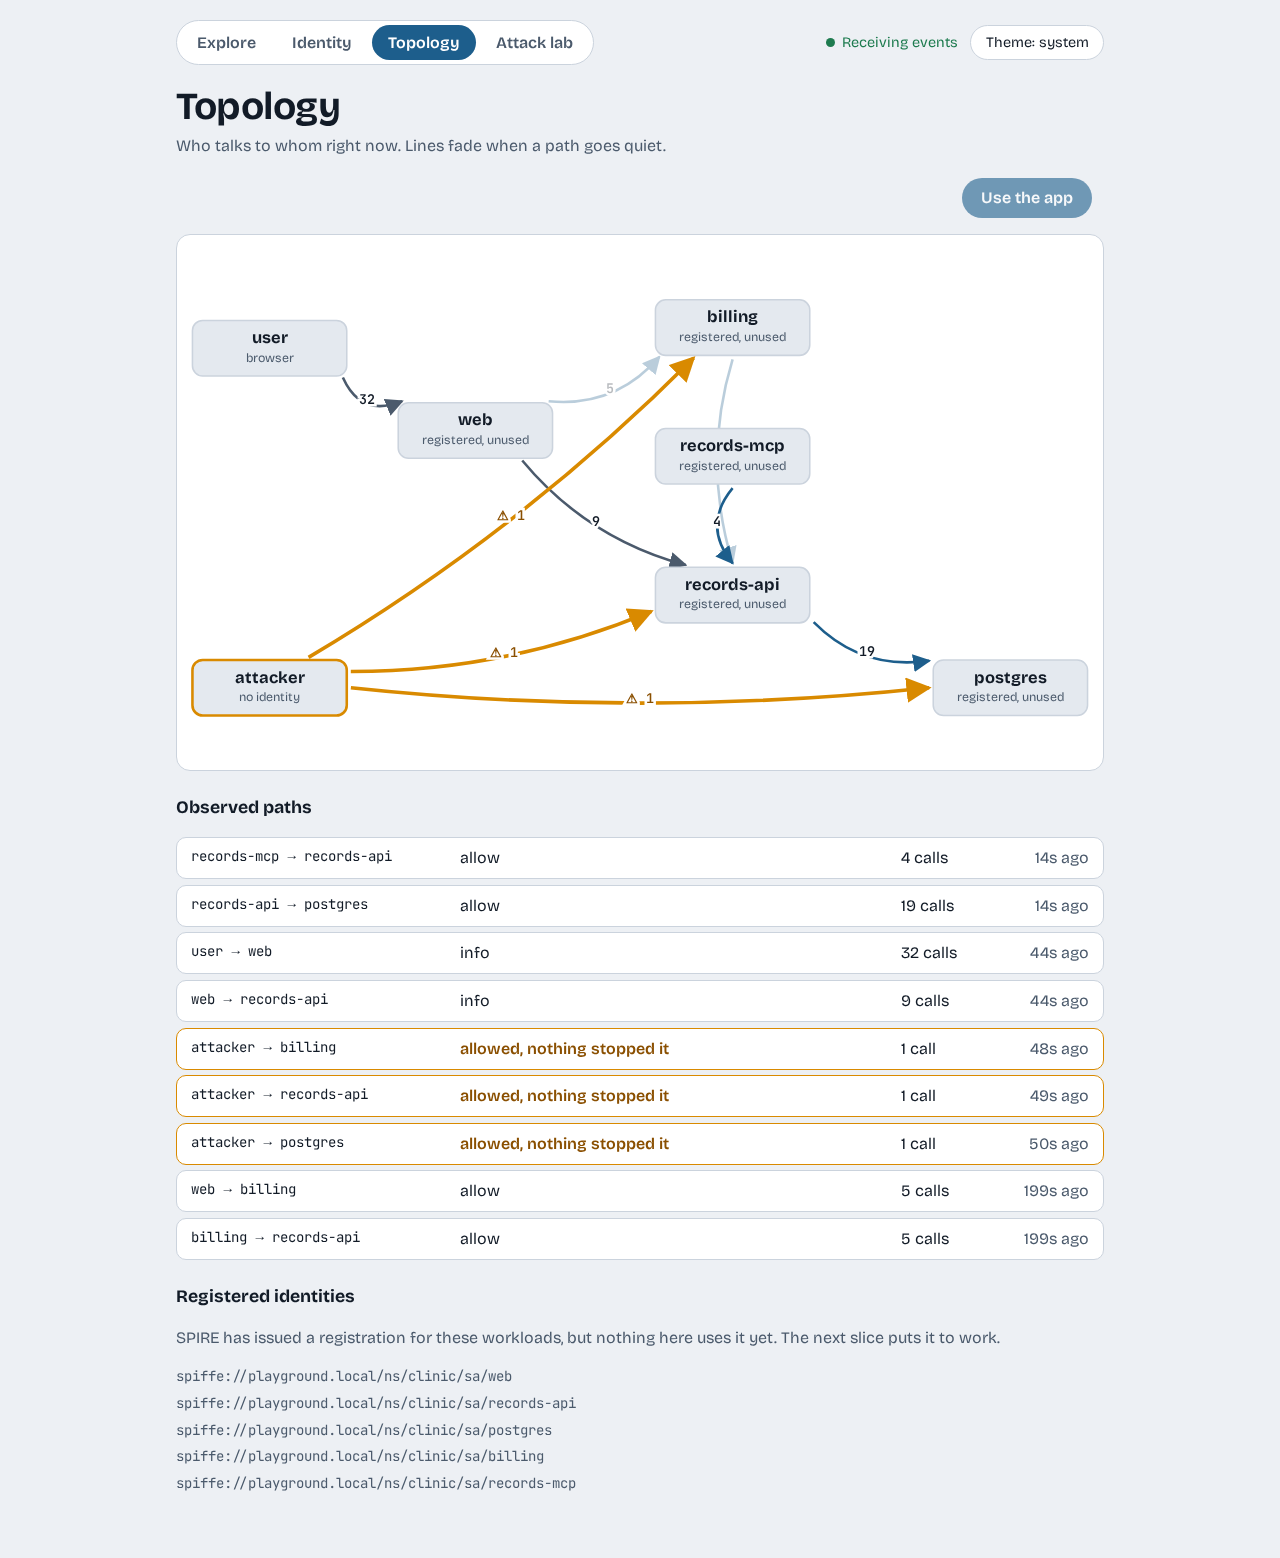
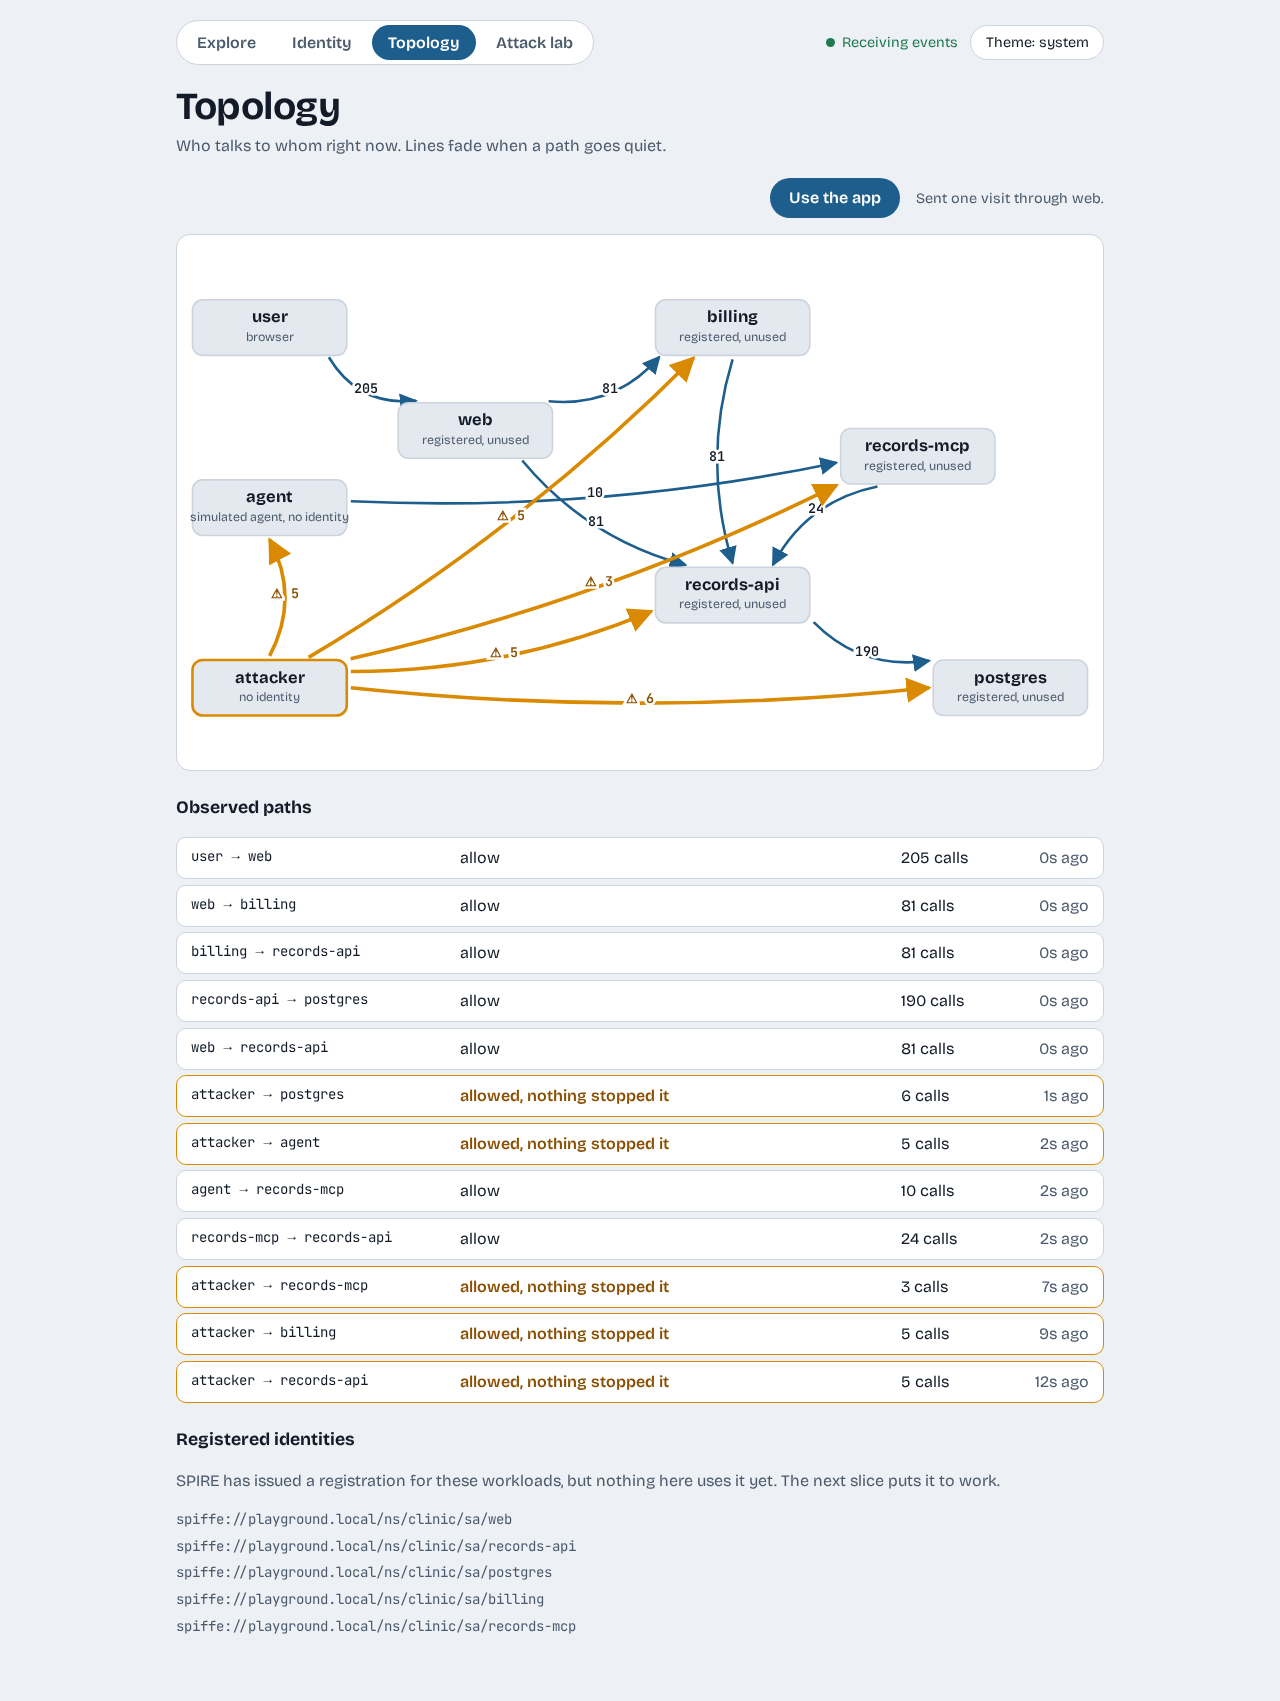
V2b: observer watches records-mcp and agent; tests insist on live evidence; cleaner Topology layout; docs screenshots from fresh activity

diff --git a/web/e2e/baseline.spec.ts b/web/e2e/baseline.spec.ts
@@ -1,4 +1,5 @@
 import { expect, test } from "@playwright/test";
+import { expectFresh, runUntilSeen } from "./fresh";
 
 // With no layers on, the clinic app is wide open. Needs `make clinic` as well as `make echo`.
 
@@ -27,28 +28,10 @@ test("every baseline attack succeeds, and an attack on Postgres shows up as an e
   await expect(page.getByText("allowed, nothing stopped it").first()).toBeVisible();
 });
 
-for (const theme of ["light", "dark"] as const) {
-  test(`screenshots of topology and attack lab, ${theme}`, async ({ page }) => {
-    await page.emulateMedia({ colorScheme: theme });
-    await page.setViewportSize({ width: 1280, height: 900 });
-    await page.goto("/#topology");
-    await page.getByRole("button", { name: "Use the app" }).click();
-    await expect(page.getByText("records-api → postgres", { exact: true })).toBeVisible({ timeout: 20_000 });
-    await page.screenshot({ path: `e2e/screenshots/topology-${theme}.png`, fullPage: true });
-    await page.goto("/#attacks");
-    await page.screenshot({ path: `e2e/screenshots/attacks-${theme}.png`, fullPage: true });
-  });
-}
-
-test("the injection attack leaves the clinic unchanged and the agent's path is on the topology", async ({ page }) => {
-  await page.goto("/#attacks");
-  const row = page.getByRole("listitem").filter({ hasText: "Let an agent summarise a poisoned record" });
-  await row.getByRole("button").click();
-  await expect(row.getByText("Succeeded, nothing stopped it")).toBeVisible({ timeout: 40_000 });
-  await page.goto("/#topology");
-  const paths = page.getByRole("list").filter({ hasText: "records-api → postgres" });
+test("the injection attack leaves the clinic unchanged and the agent's path is seen live", async ({ page }) => {
+  await runUntilSeen(page, "Let an agent summarise a poisoned record", "agent → records-mcp");
   for (const route of ["attacker → agent", "agent → records-mcp", "records-mcp → records-api"]) {
-    await expect(paths.getByText(route, { exact: true })).toBeVisible({ timeout: 20_000 });
+    await expectFresh(page, route);
   }
   // The attack plants its own records and removes them, so the clinic is as it was.
   const list = await (await page.request.get("http://localhost:8081/api/patients")).json();

diff --git a/web/e2e/docs-screenshots.spec.ts b/web/e2e/docs-screenshots.spec.ts
@@ -1,0 +1,33 @@
+import { expect, test } from "@playwright/test";
+import { expectFresh, runUntilSeen } from "./fresh";
+
+// Captures the images the tutorial uses. It makes fresh activity first, so every path on the
+// Topology is current (older ones fade) and the agent's path is present.
+const ASSETS = "../docs/tutorial/assets";
+
+test("capture the Topology and Attack lab for the tutorial", async ({ page }) => {
+  test.setTimeout(120_000);
+  await page.emulateMedia({ colorScheme: "light" });
+  await page.setViewportSize({ width: 1280, height: 900 });
+
+  // Run every attack, insisting each one is seen live, so every line on the picture is current.
+  const attacks: [string, string][] = [
+    ["Read patient records straight from Postgres", "attacker → postgres"],
+    ["Call records-api with no identity", "attacker → records-api"],
+    ["Reach billing from another namespace", "attacker → billing"],
+    ["Call the MCP server with no identity", "attacker → records-mcp"],
+    ["Let an agent summarise a poisoned record", "agent → records-mcp"],
+  ];
+  for (const [title, seen] of attacks) await runUntilSeen(page, title, seen);
+
+  await page.goto("/#attacks");
+  await page.screenshot({ path: `${ASSETS}/attacks-light.png`, fullPage: true });
+
+  await page.goto("/#topology");
+  await page.getByRole("button", { name: "Use the app" }).click();
+  for (const route of ["user → web", "attacker → agent", "agent → records-mcp", "records-mcp → records-api"]) {
+    await expectFresh(page, route, 60);
+  }
+  await page.waitForTimeout(1500); // let the lines settle
+  await page.screenshot({ path: `${ASSETS}/topology-light.png`, fullPage: true });
+});

diff --git a/web/e2e/fresh.ts b/web/e2e/fresh.ts
@@ -1,0 +1,28 @@
+import { expect, type Page } from "@playwright/test";
+
+// The observer's history persists across runs, so "this path is listed" proves nothing about a run
+// that just happened. These helpers insist the path was seen in the last few seconds.
+const route = (page: Page, text: string) =>
+  page.getByRole("listitem").filter({ has: page.locator(".route", { hasText: text }) });
+
+export async function ageOf(page: Page, text: string): Promise<number> {
+  const label = await route(page, text).locator(".age").first().textContent({ timeout: 1000 }).catch(() => null);
+  return label ? parseInt(label, 10) : Infinity;
+}
+
+export const expectFresh = (page: Page, text: string, seconds = 30) =>
+  expect.poll(() => ageOf(page, text), { message: `${text} should have been seen in the last ${seconds}s`, timeout: 15_000 })
+    .toBeLessThan(seconds);
+
+/** Run an attack from the Attack lab, retrying when a freshly started observer had not attached yet. */
+export async function runUntilSeen(page: Page, title: string, seenRoute: string, attempts = 3) {
+  for (let i = 1; i <= attempts; i++) {
+    await page.goto("/#attacks");
+    const row = page.getByRole("listitem").filter({ hasText: title });
+    await row.getByRole("button").click();
+    await expect(row.getByText("Succeeded, nothing stopped it")).toBeVisible({ timeout: 40_000 });
+    await page.goto("/#topology");
+    if ((await expect.poll(() => ageOf(page, seenRoute), { timeout: 8_000 }).toBeLessThan(30).then(() => true, () => false))) return;
+  }
+  throw new Error(`${seenRoute} was never seen live after ${attempts} runs of "${title}"`);
+}

diff --git a/web/src/lib/graph.ts b/web/src/lib/graph.ts
@@ -37,8 +37,8 @@ export function reduceGraph(g: Graph, ev: Ev & { dst?: string | null; verdict?: 
 
 // Fixed slots so the picture is the same every time and learners can build a memory of it.
 const SLOTS: Record<string, [number, number]> = {
-  user: [90, 110], attacker: [90, 440], web: [290, 190], billing: [540, 90],
-  "records-mcp": [540, 215], agent: [290, 340], "records-api": [540, 350], postgres: [810, 440],
+  user: [90, 90], agent: [90, 265], attacker: [90, 440], web: [290, 190], billing: [540, 90],
+  "records-mcp": [720, 215], "records-api": [540, 350], postgres: [810, 440],
 };
 
 export function layout(names: string[]): Record<string, { x: number; y: number }> {

diff --git a/services/observer/observer/adapters.py b/services/observer/observer/adapters.py
@@ -69,13 +69,17 @@ async def _parse_postgres(text):
     return from_postgres_line(text, await pod_by_ip())
 
 
+# Services whose request logs become Topology events, by namespace. A test checks this against the
+# deployed manifests, so a new service cannot be added and quietly left out.
+TRAFFIC = {"clinic": ["web", "records-api", "billing", "records-mcp"], "agents": ["agent"]}
+
 # Identity workloads are backfilled (the current SVID matters on startup; emit dedupes by serial).
 # Traffic is only interesting live, and has no key to dedupe on, so it starts from now.
 workload_logs = functools.partial(tail_logs, namespace="clinic", selector="app in (echo-a,echo-b)",
                                   parse=_parse_log, tail=50)
-service_logs = functools.partial(tail_logs, namespace="clinic", selector="app in (web,records-api,billing)",
-                                 parse=_parse_log, tail=0)
+service_logs = [functools.partial(tail_logs, namespace=ns, selector=f"app in ({','.join(apps)})",
+                                  parse=_parse_log, tail=0) for ns, apps in TRAFFIC.items()]
 postgres_connections = functools.partial(tail_logs, namespace="clinic", selector="app=postgres",
                                          parse=_parse_postgres, tail=0)
 
-ALL = (spire_entries, workload_logs, service_logs, postgres_connections)
+ALL = (spire_entries, workload_logs, *service_logs, postgres_connections)

diff --git a/services/observer/tests/test_coverage.py b/services/observer/tests/test_coverage.py
@@ -1,0 +1,24 @@
+from pathlib import Path
+
+import yaml
+
+from observer.adapters import TRAFFIC
+
+DEPLOY = Path(__file__).resolve().parents[3] / "deploy"
+
+
+def http_services() -> set[tuple[str, str]]:
+    """Every deployed workload that runs one of the clinic FastAPI/MCP apps and so logs HTTP events."""
+    found = set()
+    for manifest in [DEPLOY / "clinic/app.yaml", DEPLOY / "agent.yaml"]:
+        for doc in yaml.safe_load_all(manifest.read_text()):
+            if doc and doc["kind"] == "Deployment":
+                command = doc["spec"]["template"]["spec"]["containers"][0].get("command", [])
+                if command[:1] == ["uvicorn"]:
+                    found.add((doc["metadata"]["namespace"], doc["metadata"]["name"]))
+    return found
+
+
+def test_the_observer_watches_every_service_that_logs_http_events():
+    watched = {(ns, app) for ns, apps in TRAFFIC.items() for app in apps}
+    assert http_services() == watched
